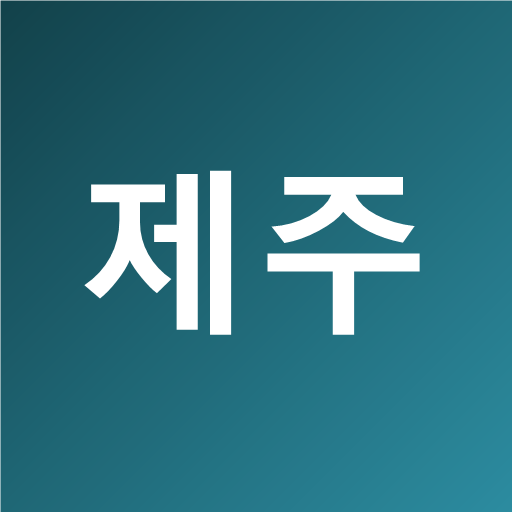
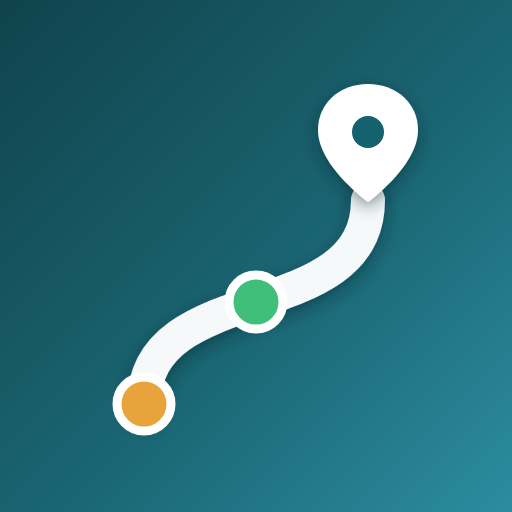
B11.2 — 새 앱 아이콘·첫 로딩 줄·정차지 유형 아이콘·맛집 카드 동선 거리
Claude-Session: https://claude.ai/code/session_01EhNCHX9aKZSPUE2iEJHaCe

Changed region(s): [[0.1562, 0.1562, 0.8438, 0.875], [0.0, 0.0, 0.0312, 0.0312]]

diff --git a/index.html b/index.html
@@ -17,6 +17,7 @@
 <meta property="og:url" content="https://hanbrook3.github.io/jeju-trip/">
 <meta name="description" content="2026.10.05 ~ 10.09 제주 4박 5일 가족 여행 안내 — 일정, 여행지 49곳, 맛집 64곳, 준비물">
 <link rel="apple-touch-icon" href="icon-192.png">
+<link rel="icon" type="image/png" sizes="192x192" href="icon-192.png">
 <meta name="mobile-web-app-capable" content="yes">
 <meta name="apple-mobile-web-app-capable" content="yes">
 <meta name="apple-mobile-web-app-status-bar-style" content="black-translucent">
@@ -1830,6 +1831,25 @@ summary.head.hasimg{grid-template-columns:52px 1fr 46px 18px}
   .herostrip div{background:#f2f2f2}
   a[href^="tel:"]::after{content:""}
 }
+
+/* ── B11.2 (2026-10-07) ── */
+/* 첫 로딩 줄 — 본문 스크립트가 지운다 */
+.loadbar{height:3px;background:var(--linesoft);overflow:hidden;max-width:520px;margin:0 auto}
+.loadbar i{display:block;height:100%;width:38%;background:var(--sea2);border-radius:2px;animation:loadslide 1.1s ease-in-out infinite}
+@keyframes loadslide{from{transform:translateX(-110%)}to{transform:translateX(280%)}}
+/* 정차지 유형 아이콘 */
+.tyico{display:inline-flex;vertical-align:-3px;margin-right:5px;color:var(--faint)}
+.tyico svg{width:16px;height:16px}
+.tyico:empty{display:none}
+.stop.meal .tyico{color:var(--amber)}
+.stop.ship .tyico{color:var(--rose)}
+.stop.spot .tyico{color:var(--sea2)}
+.stop.move .tyico{color:var(--faint)}
+/* 맛집 카드 — 오늘 동선에서 */
+.fhead2 .fnear{grid-column:1;font-size:12px;color:var(--sea);font-weight:600;line-height:1.4;margin-top:1px}
+.fhead2 .fnear.far{color:var(--faint);font-weight:500}
+summary.fhead2{grid-template-rows:auto auto auto}
+.fhead2 .chev{grid-row:1/4}
 </style>
 </head>
 <body>
@@ -1842,6 +1862,7 @@ summary.head.hasimg{grid-template-columns:52px 1fr 46px 18px}
     <button class="mtab" type="button" role="tab" aria-selected="false" data-m="spot">여행지</button>
     <button class="mtab" type="button" role="tab" aria-selected="false" data-m="food">맛집</button>
   </div></nav>
+  <div class="loadbar" id="loadbar" aria-hidden="true"><i></i></div>
   <nav class="days" id="daysnav"><div class="wrap" role="tablist" id="daytabs"></div></nav>
   <!-- 지도는 여행 일정과 맛집 탭이 함께 쓴다 -->
   <div class="mapzone" id="mapzone">
@@ -2077,6 +2098,8 @@ summary.head.hasimg{grid-template-columns:52px 1fr 46px 18px}
 </main>
 
 <script>
+/* 스크립트가 여기까지 내려왔으면 받는 것은 끝났다 — 로딩 줄을 지운다 */
+try{ const lb=document.getElementById('loadbar'); if(lb) lb.remove(); }catch(e){}
 /* ══════ 지도 ══════
    타일 서버가 막혀도 동작하도록 섬·도로를 벡터로 직접 그린다.
    타일이 정상적으로 오면 그때 벡터를 걷고 실제 지도로 바꾼다.       */
@@ -4834,6 +4857,19 @@ function renderFoodCards(){
   const list=foodList();
   if(cnt) cnt.textContent=`${list.length}곳${foodZone==='전체'?'':' · '+foodZone}`;
   if(!list.length){ box.innerHTML='<p class="fempty">해당 분류에 등록된 맛집이 없습니다.</p>'; return; }
+  /* 오늘(여행 중이 아니면 보고 있는 날) 동선의 정차지 중 가장 가까운 곳에서 몇 분인지.
+     구워 둔 실측이 있으면 그 값, 없으면 거리 어림(guessMin)이라 '약'을 붙인다. */
+  const 날=(todayIdx()>=0)?todayIdx():curDay;
+  const 정차=(D[날]&&D[날].stops||[]).filter(핀낼곳);
+  function nearText(f){
+    if(!f.ll||!정차.length) return '';
+    let best=null;
+    정차.forEach(function(st){ const ll=rideLL(st,SPOT)||st.ll; const m=rideNow(ll,f.ll); if(m!==null&&(best===null||m<best.m)) best={m:m,s:st}; });
+    if(!best) return '';
+    const 이름=best.s.n.replace(/^(점심|저녁|아침|카페) · /,'').replace(/ (출발|도착|복귀)( ·.*)?$/,'');
+    /* 30분 넘게 떨어진 곳은 흐리게 — 가까운 곳이 먼저 눈에 들어와야 한다 */
+    return `<span class="fnear${best.m>30?' far':''}">${D[날].dm.replace('.','/')} 동선 · ${이름}에서 약 ${best.m}분</span>`;
+  }
   /* 여행 일정처럼 접어 두고, 누르면 펼쳐지면서 지도가 그 자리로 간다 */
   box.innerHTML=list.map(f=>{
     const idx=FOOD.indexOf(f);
@@ -4846,7 +4882,7 @@ function renderFoodCards(){
       <summary class="fhead2">
         <span class="ftit">${f.pick?'<span class="fpick">★</span>':''}<b>${f.n}</b>
           <span class="fzone">${f.kind==='카페'?'카페 · ':''}${f.zone}</span>${f.rate?`<span class="frate">${f.rate}</span>`:''}${f.기록?`<span class="fnew">새로 넣음</span>`:''}${f.넣음?`<button type="button" class="fdel" data-del="${f.n}" aria-label="목록에서 빼기">−</button>`:''}${f.누가?`<span class="fwho">${f.누가}</span>`:''}</span>
-        <span class="fsub">${sub}</span>
+        <span class="fsub">${sub}</span>${nearText(f)}
         <svg class="chev" viewBox="0 0 24 24" fill="none" stroke="currentColor" stroke-width="2.2" stroke-linecap="round" stroke-linejoin="round"><path d="M9 18l6-6-6-6"/></svg>
       </summary>
       <div class="fbody2">
@@ -5091,6 +5127,13 @@ function wayText(w){
   return '차로 '+분글(w.min)+' 이동';
 }
 /* 이동 수단 아이콘 — 글을 읽기 전에 눈으로 구분된다 */
+/* 정차지 유형 아이콘 — 식사·배·관광·이동. 색은 CSS 가 유형별로 준다 */
+const TYICO={
+  meal:'<svg viewBox="0 0 24 24" fill="none" stroke="currentColor" stroke-width="2" stroke-linecap="round" stroke-linejoin="round" aria-hidden="true"><path d="M5 3v5a2.5 2.5 0 0 0 5 0V3"/><path d="M7.5 3v18"/><path d="M18 3c-2.2 0-3.5 2.6-3.5 6v3H18v9"/></svg>',
+  ship:'<svg viewBox="0 0 24 24" fill="none" stroke="currentColor" stroke-width="2" stroke-linecap="round" stroke-linejoin="round" aria-hidden="true"><path d="M3 18c2 1.6 4 1.6 6 0 2 1.6 4 1.6 6 0 2 1.6 4 1.6 6 0"/><path d="M5 14l-1.2-4H20l-1.2 4"/><path d="M7 10V6h10v4"/><path d="M12 3v3"/></svg>',
+  spot:'<svg viewBox="0 0 24 24" fill="none" stroke="currentColor" stroke-width="2" stroke-linecap="round" stroke-linejoin="round" aria-hidden="true"><path d="M3 20l6-10 4 6 2.5-3.5L21 20z"/><circle cx="17" cy="6" r="2"/></svg>',
+  move:'<svg viewBox="0 0 24 24" fill="none" stroke="currentColor" stroke-width="2" stroke-linecap="round" stroke-linejoin="round" aria-hidden="true"><path d="M3 13l2-5h14l2 5v5h-2a2 2 0 0 1-4 0H9a2 2 0 0 1-4 0H3z"/><path d="M3 13h18"/></svg>'
+};
 const HOPICO={
   car:'<svg viewBox="0 0 24 24" fill="none" stroke="currentColor" stroke-width="2" stroke-linecap="round" stroke-linejoin="round" aria-hidden="true"><path d="M3 13l2-5h14l2 5v5h-2a2 2 0 0 1-4 0H9a2 2 0 0 1-4 0H3z"/><path d="M3 13h18"/></svg>',
   walk:'<svg viewBox="0 0 24 24" fill="none" stroke="currentColor" stroke-width="2" stroke-linecap="round" stroke-linejoin="round" aria-hidden="true"><circle cx="13" cy="4" r="1.6"/><path d="M9.5 21l2.5-6 3 2v4"/><path d="M8 13l2.5-5 4 1 2.5 3"/><path d="M13 9l-1 4"/></svg>',
@@ -5253,7 +5296,7 @@ function render(i){
     const 핀스=(k>=0&&핀색[k])?` style="--pinfill:${핀색[k]}"`:'';
     return `<details class="stop ${s.ty}${k<0?' nopin':''}${(지금&&si===지금.nowIdx)?' now':''}"${핀스}${has?'':' data-x'}${mk}${editOn?' open':''}>
       <summary class="head${s.img?' hasimg':''}"><span class="tm">${apChip(때)}${editOn?'':depChip(목록,si,계획,때)}</span>
-      <span class="ttl"><h3>${k>=0?`<b class="pnum"${핀색[k]?` style="--pinfill:${핀색[k]}"`:''}>${k+1}</b>`:''}${s.n}</h3>${(머묾||s.sub)?`<p>${머묾}${s.sub?apText(s.sub):''}</p>`:''}</span>
+      <span class="ttl"><h3>${k>=0?`<b class="pnum"${핀색[k]?` style="--pinfill:${핀색[k]}"`:''}>${k+1}</b>`:''}<i class="tyico">${TYICO[s.ty]||''}</i>${s.n}</h3>${(머묾||s.sub)?`<p>${머묾}${s.sub?apText(s.sub):''}</p>`:''}</span>
       ${s.img?`<img class="thumb" src="${s.img}" alt="">`:''}${has?CH:'<span></span>'}</summary>${editOn?editRow(i,s._k,s,si):(has?detail(s):'')}</details>`
       +(editOn?'':freeRow(s)+hopRow(목록,si,계획.rides,핀색[mi]));}).join('');
   tl.querySelectorAll('details[data-x]').forEach(x=>x.querySelector('summary').style.cursor='default');

diff --git a/sw.js b/sw.js
@@ -1,7 +1,7 @@
 /* 제주 여행 가이드 — 오프라인 지원
    앱 화면은 캐시에서 바로 꺼내 쓰고, 뒤에서 새 버전을 받아 둔다.
    지도 타일과 경로 계산은 인터넷이 필요하다 — 실패해도 앱은 열린다. */
-const CACHE = 'jeju-trip-v18';
+const CACHE = 'jeju-trip-v19';
 const SHELL = ['./', './index.html'];
 
 self.addEventListener('install', e => {
